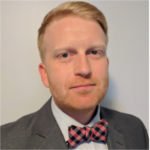
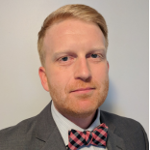
update

diff --git a/resources.html b/resources.html
@@ -1,0 +1,58 @@
+---
+title: 'RightingCode.org'
+layout: default
+---
+
+<div class='row'>
+  <div class = 'page-header' style="col-lg-12">
+    <h4>Resources</h4>
+  </div>
+  <h5>Introduction to Software Analysis</h5>
+  <ul>
+    <li><a href="http://www.around.com/ariane.html">A Bug and a Crash</a></li>
+  </ul>
+  <h5>Random Testing</h5>
+  <ul>
+    <li><a href="http://developer.android.com/tools/help/monkey.html ">The Monkey Tool (tool)</a></li>
+    <li><a href="http://pages.cs.wisc.edu/~bart/fuzz/fuzz.html">Fuzzing Study (main)</a></li>
+    <li><a href="ftp://ftp.cs.wisc.edu/par-distr-sys/technical_papers/fuzz.pdf">Fuzzing Study (paper 1)</a></li>
+    <li><a href="ftp://ftp.cs.wisc.edu/paradyn/technical_papers/fuzz-revisited.pdf">Fuzzing study (paper 2)</a></li>
+    <li><a href="http://research.microsoft.com/en-us/projects/cuzz/">Cuzz (main)</a></li>
+    <li><a href="http://research.microsoft.com/pubs/118655/asplos277-pct.pdf">Cuzz (paper)</a></li>
+  </ul>
+  <h5>Automated Test Generation</h5>
+  <ul>
+    <li><a href="http://mir.cs.illinois.edu/marinov/publications/BoyapatiETAL02Korat.pdf">Korat (tool)</a></li>
+    <li><a href="http://research.microsoft.com/pubs/76578/randoop-tr.pdf">Randoop (tool)</a></li>
+  </ul>
+  <h5>Constraint-Based Analysis</h5>
+  <ul>
+    <li><a href="http://www.utdallas.edu/~gupta/courses/acl/papers/datalog-paper.pdf">What You Always Wanted to Know About Datalog</a></li>
+    <li><a href="http://webdam.inria.fr/Alice/">Foundations of Databases</a></li>
+    <li><a href="https://suif.stanford.edu/papers/pldi04.pdf">Cloning-based Context-sensitivity</a></li>
+    <li><a href="https://research.cs.wisc.edu/wpis/papers/popl95.pdf">Summary-based Inter-procedural Analysis</a></li>
+  </ul>
+  <h5>Type Systems</h5>
+  <ul>
+    <li><a href="http://ieeexplore.ieee.org/xpls/abs_all.jsp?arnumber=4602670&tag=1">Using Static Analysis to Find Bugs</a></li>
+    <li><a href="https://dl.acm.org/citation.cfm?id=1646374">A Few Billion Lines of Code Later: Using Static Analysis to Find Bugs in the Real World</a></li>
+    <li><a href="http://lucacardelli.name/Papers/TypeSystems.pdf">Type Systems</a></li>
+    <li><a href="https://www.cis.upenn.edu/~bcpierce/tapl">Types and Programming Languages</a></li>
+    <li><a href="https://www.cis.upenn.edu/~bcpierce/attapl">Advanced Topics in Types and Programming Languages</a></li>
+  </ul>
+  <h5>Statistical Debugging</h5>
+  <ul>
+    <li><a href="http://research.cs.wisc.edu/cbi/">The Cooperative Bug Isolation Project (tool)</a></li>
+  </ul>
+  <h5>Delta Debugging</h5>
+  <ul>
+    <li><a href="https://www.st.cs.uni-saarland.de/publications/files/zeller-tse-2002.pdf">Simplifying and Isolating Failure-Inducing Input</a></li>
+    <li><a href="https://www.st.cs.uni-saarland.de/publications/files/zeller-esec-1999.pdf">Yesterday, my program worked. Today, it does not. Why?</a></li>
+  </ul>
+  <h5>Dynamic Symbolic Execution</h5>
+  <ul>
+    <li><a href="http://mir.cs.illinois.edu/marinov/publications/SenETAL05CUTE.pdf">CUTE: A Concolic Unit Testing Engine for C</a></li>
+    <li><a href="https://patricegodefroid.github.io/public_psfiles/ndss2008.pdf">SAGE (paper)</a></li>
+    <li><a href="https://patricegodefroid.github.io/public_psfiles/talk-spin2009.pdf">SAGE (slides)</a></li>
+  </ul>
+</div>

diff --git a/people.html b/people.html
@@ -6,21 +6,21 @@ layout: default
 <div class='row'>
 	<div class='col-md-4'>
 		<center>
-			<img src="images/mayur_naik.jpg"/> <br><br>
+			<img class="img-circle" src="images/mayur_naik.jpg"/> <br><br>
 			<a href="http://www.cis.upenn.edu/~mhnaik/">Mayur Naik</a><br>
   			<b>Course Creator</b>
 		</center>
 	</div>
 	<div class='col-md-4'>
 		<center>
-			<img src="images/michael_brown.png"/> <br><br>
+			<img class="img-circle" src="images/michael_brown.png"/> <br><br>
 			Michael Brown <br>
 			<b>Instructor</b>
 		</center>
 	</div>
 	<div class='col-md-4'>
 		<center>
-			<img src="images/chris_pryby.jpg"/> <br><br>
+			<img class="img-circle" src="images/chris_pryby.jpg"/> <br><br>
 			Chris Pryby <br>
 			<b>Course Developer</b>
 		</center>

diff --git a/index.html b/index.html
@@ -7,18 +7,15 @@ logo_style: 'width: 280px; height: 70px;'
 
 <div class="top"  >
   <div class="row">
-    <div class=" col-md-11  nopadding vcenter">
-      <h1 id = "logo">Welcome to Rightingcode.org</h1>
-    </div>
-  </div>
-  </br>
-  <div class="row">
-    <div class="col-md-12">
+    <div class="col-md-11 nopadding vcenter">
+     <img src="images/banner.png" width="100%"/>
+	 <h1 id="logo">RightingCode.org</h1>
     </div>
   </div>
 </div>
 
 
+<!--
 <div class="row">
 	<div class="page-header" class="col-lg-12">
 		<h4>News</h4>
@@ -33,6 +30,7 @@ logo_style: 'width: 280px; height: 70px;'
 	</ul>
 		</div>
 </div>
+-->
 
 
 <div class='row'>

diff --git a/css/customer.css b/css/customer.css
@@ -1,3 +1,7 @@
+.img-circle {
+    border-radius: 50%;
+}
+
 #content {
 	background-color:  white ;
 	padding-top: 50px;
@@ -13,14 +17,6 @@
 
 body {
     background-color: white;
-}
-
-.people_group{
-	margin-top: 20px;
-}
-
-.people_group table{
-	text-align: left;	
 }
 
 #footer {

diff --git a/ready.html b/ready.html
@@ -5,7 +5,7 @@ layout: default
 
 <div class='row'>
 	<div class = 'page-header' style="col-lg-12">
-  	<h4>Readiness Assessment</h4>
+  	<h4>Prereqs</h4>
   </div>
   <div class='col-md-12'>
 	  <p>
